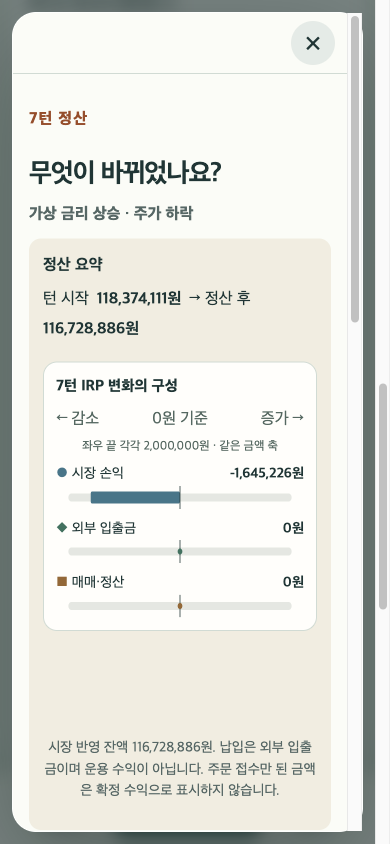
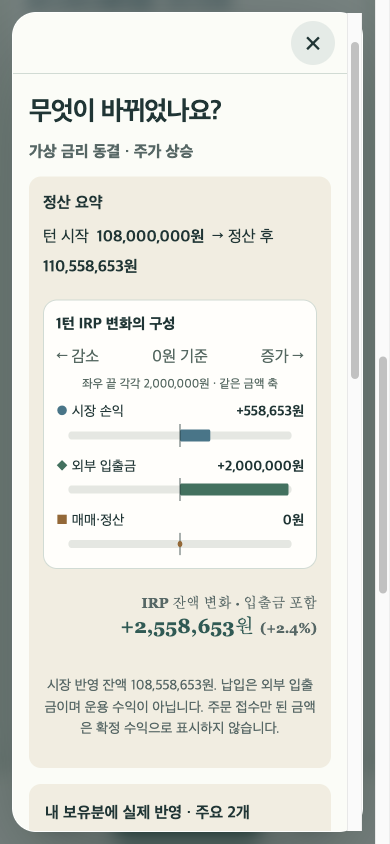
docs: record P2 production verification

diff --git a/docs/implementation/2026-09-12-review-p2.md b/docs/implementation/2026-09-12-review-p2.md
@@ -34,4 +34,9 @@
 
 ## 배포
 
-GitHub PR·main 병합·태그 및 Vercel production 검증은 배포 완료 후 이 항목에 기록합니다.
+- [PR #12](https://github.com/embrain82/2609_Pension_Monopoly/pull/12) main 병합 완료. 구현 `d39eb44`, 병합 `b8b0fb45b8fba21fe640cb2ea99599bb750e207d`.
+- 검증한 production 배포 `dpl_CbiCzy4zqjjv11UTV7xKq4oUWCeH`: READY. 빌드 로그의 main `b8b0fb4` 일치, Vite 정적 앱, Vercel 빌드 단계 약 10초.
+- 운영 주소: https://2609-pension-monopoly.vercel.app/ . 동일 배포의 고유 주소 `2609-pension-monopoly-8l30emmis-nonsleepers-projects.vercel.app`에서 첫 사용자 동의→5문항 진단→옵션 선택→시작→1턴 최대 200만원 납입→정산을 확인했습니다. 사용자의 기존 운영 URL 저장은 건드리지 않았습니다.
+- 운영 별칭의 JS·CSS SHA-256이 로컬 검증 빌드와 동일합니다. `production-assets.json`. 금액은 즉시 보이고 가로 넘침 없음, 새 판의 `route.version=auto-v1` 확인. `production-smoke.json` 및 `production-first-start.png`, `settlement-mobile.png`.
+- 해당 배포의 최근 1시간 error 로그 조회 결과 0건. 조회 시점의 정적 배포 확인이며 장기 모니터링 결과를 뜻하지 않습니다.
+- v1.8.0 태그는 위 구현과 배포 검증 기록을 포함한 main 커밋에 남깁니다. 검증 기록 추가는 애플리케이션 코드를 변경하지 않습니다.
